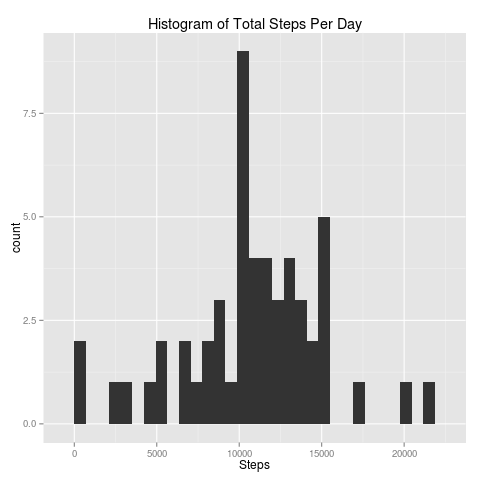
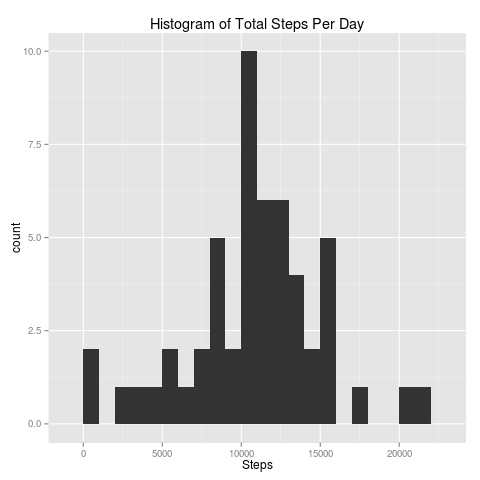
Eliminate warning prints from .md file

diff --git a/PA1_template.html b/PA1_template.html
@@ -152,11 +152,10 @@ colnames(totalPerDay) &lt;- c(&quot;Date&quot;,&quot;TotalSteps&quot;)</code></p
 ## 52 2012-11-28      10183
 ## 53 2012-11-29       7047</code></pre>
 <pre class="r"><code>png(file=&quot;figures/histogram.png&quot;,width=480,height=480)
-phist &lt;- ggplot(totalPerDay, aes(x=TotalSteps)) + geom_histogram()
-phist+xlab(&quot;Steps&quot;)+ggtitle(&quot;Histogram of Total Steps Per Day&quot;)</code></pre>
-<pre><code>## stat_bin: binwidth defaulted to range/30. Use 'binwidth = x' to adjust this.</code></pre>
-<pre class="r"><code>invisible(dev.off())</code></pre>
[1 lines of base64/hex data omitted]
+phist &lt;- ggplot(totalPerDay, aes(x=TotalSteps)) + geom_histogram(binwidth=1000)
+phist+xlab(&quot;Steps&quot;)+ggtitle(&quot;Histogram of Total Steps Per Day&quot;)
+invisible(dev.off())</code></pre>
[1 lines of base64/hex data omitted]
 <pre class="r"><code>meanSteps &lt;- sprintf(&quot;%0.f&quot;,mean(totalPerDay$TotalSteps))
 medianSteps &lt;- sprintf(&quot;%0.f&quot;,median(totalPerDay$TotalSteps))</code></pre>
 </div>
@@ -303,11 +302,10 @@ colnames(totalPerDayi) &lt;- c(&quot;Date&quot;,&quot;TotalSteps&quot;)</code></
 ## 61 2012-11-30      10766</code></pre>
 <pre class="r"><code>png(file=&quot;figures/histogrami.png&quot;,width=480,height=480)
 #hist(totalPerDayi$TotalSteps,main =&quot;Histogram of Total Steps Per Day&quot;, xlab=&quot;Steps&quot;,breaks=10)
-phist &lt;- ggplot(totalPerDayi, aes(x=TotalSteps)) + geom_histogram()
-phist+xlab(&quot;Steps&quot;)+ggtitle(&quot;Histogram of Total Steps Per Day&quot;)</code></pre>
-<pre><code>## stat_bin: binwidth defaulted to range/30. Use 'binwidth = x' to adjust this.</code></pre>
-<pre class="r"><code>invisible(dev.off())</code></pre>
[1 lines of base64/hex data omitted]
+phist &lt;- ggplot(totalPerDayi, aes(x=TotalSteps)) + geom_histogram(binwidth=1000)
+phist+xlab(&quot;Steps&quot;)+ggtitle(&quot;Histogram of Total Steps Per Day&quot;)
+invisible(dev.off())</code></pre>
[1 lines of base64/hex data omitted]
 <pre class="r"><code>meanStepsi &lt;- sprintf(&quot;%0.f&quot;,mean(totalPerDayi$TotalSteps))
 medianStepsi &lt;- sprintf(&quot;%0.f&quot;,median(totalPerDayi$TotalSteps))</code></pre>
 <div id="mean-of-number-of-steps-per-day-10766-1" class="section level6">

diff --git a/PA1_template.md b/PA1_template.md
@@ -106,15 +106,8 @@ totalPerDay
 
 ```r
 png(file="figures/histogram.png",width=480,height=480)
-phist <- ggplot(totalPerDay, aes(x=TotalSteps)) + geom_histogram()
+phist <- ggplot(totalPerDay, aes(x=TotalSteps)) + geom_histogram(binwidth=1000)
 phist+xlab("Steps")+ggtitle("Histogram of Total Steps Per Day")
-```
-
-```
-## stat_bin: binwidth defaulted to range/30. Use 'binwidth = x' to adjust this.
-```
-
-```r
 invisible(dev.off())
 ```
 ![histogram](figures/histogram.png)
@@ -286,15 +279,8 @@ totalPerDayi
 ```r
 png(file="figures/histogrami.png",width=480,height=480)
 #hist(totalPerDayi$TotalSteps,main ="Histogram of Total Steps Per Day", xlab="Steps",breaks=10)
-phist <- ggplot(totalPerDayi, aes(x=TotalSteps)) + geom_histogram()
+phist <- ggplot(totalPerDayi, aes(x=TotalSteps)) + geom_histogram(binwidth=1000)
 phist+xlab("Steps")+ggtitle("Histogram of Total Steps Per Day")
-```
-
-```
-## stat_bin: binwidth defaulted to range/30. Use 'binwidth = x' to adjust this.
-```
-
-```r
 invisible(dev.off())
 ```
 ![histogram](figures/histogrami.png)
